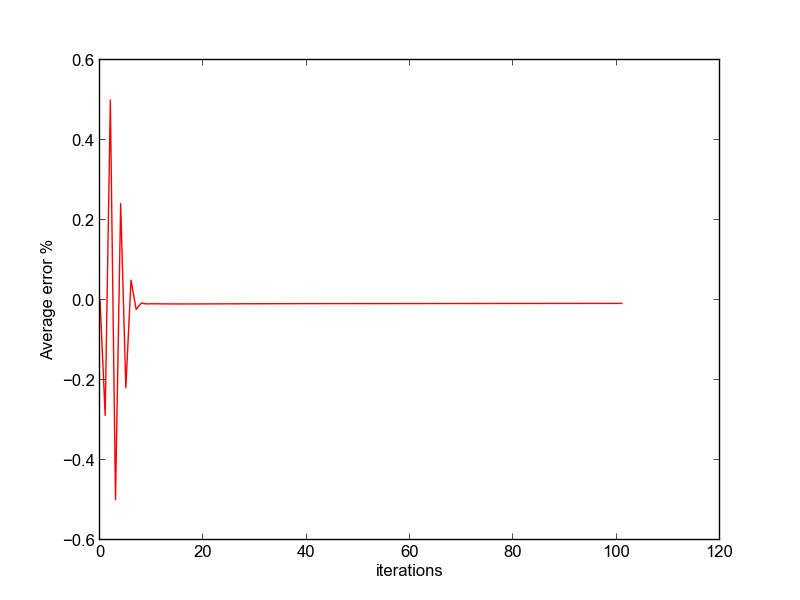
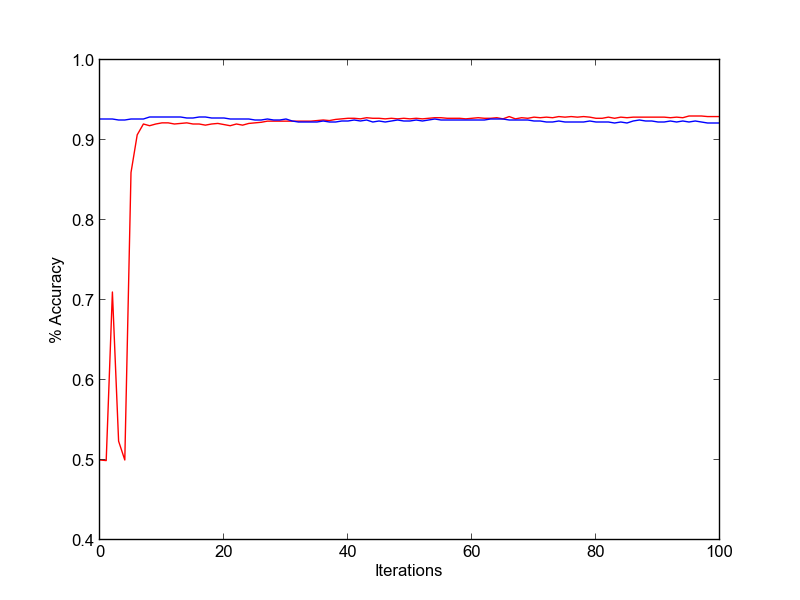
adjusted from calculating error, to tacking accuracy, and used rounding to determine which class the image belonged to, instead of raw probability

diff --git a/IA2/usps.py b/IA2/usps.py
@@ -23,32 +23,32 @@ def batch_gradient_descent(data, y, w):
 	x = 0
 	max_exponent = 0;
 	iterations = []
-	avErrorList = []
+	avAccuracyList = []
 	dOld = np.zeros((len(data[0]),1))
 	while (convergence != True):
-		errorList = []
-		#print w
-		#print data[x]
+		correct = 0
 		dNew = np.zeros((len(data[0]),1))
 		dataT = data.T
 		print "----------------------------------------------"
 		for i in range(1, len(data)):
-		#	print "i ", i
 			exponent = (-1*(w)) * (data[i-1].T)
 			yHat = 1/(1+ math.exp(exponent))
-			errors = y[i] - yHat
-
-			errorList.append(errors)		
+			yHatRound = round(yHat)
+	
+			errors = y[i] - yHatRound
+			if(errors == 0):
+				correct = correct + 1
 			dNew = dNew + (errors.item(0) * data[i])
 		w = w + (learningRate * dNew)
 
-		sumError = sum(errorList)
-		avError = sumError / len(y)
-		print "%Error" , avError
-		avErrorList.append(avError)
+		avAccuracy = float(correct) / float(len(y))
+		print correct, " Correct, out of ", len(y) 
+		print "% Accurracy" , avAccuracy
+		avAccuracyList.append(avAccuracy)
 		iterations.append(x)	
 
-		if(np.linalg.norm((dNew - dOld), 'fro') < 1 or x > 100):
+		#if(np.linalg.norm((dNew - dOld), 'fro') < .1 or x > 10000):
+		if(x >= 100):
 			convergence = True;	
 		else:
 			print np.linalg.norm((dNew - dOld), 'fro')
@@ -56,55 +56,47 @@ def batch_gradient_descent(data, y, w):
 			dOld = dNew;
 			x = x + 1
 
-	return iterations, avErrorList
+	return iterations, avAccuracyList, w
 
-def graph_error_over_iterations(iterations, avErrorList, source):
-	#print iterations
-	#print avError
-		
-
+def graph_error_over_iterations(iterations, avAccuracyList, source):
 	it = np.array(iterations)
-	err = np.array(avErrorList)
+	err = np.array(avAccuracyList)
 	err.shape = it.shape
-
-
 
 	print it.shape
 	print err.shape	
 	plt.figure(1)
 	if(source == 0):
-		plt.plot(it, err, 'r', label='test')
+		plt.plot(it, err, 'r', label='train')
 	else:
-		plt.plot(it, err, 'b', label='train')
-	plt.xlabel('iterations')
-	plt.ylabel('Average error %')
+		plt.plot(it, err, 'b', label='test')
+	plt.xlabel('Iterations')
+	plt.ylabel('% Accuracy')
 	plt.savefig('gradientDescentImprovement.png')
 
 
-def get_train_data():
-#	reader = open("usps-4-9-train.csv", "rb")
+def get_data(filename):
 	data = []
-	myText = np.loadtxt(open("usps-4-9-train.csv", "rb"), delimiter=",")
+	myText = np.loadtxt(open(filename, "rb"), delimiter=",")
 	x = list(myText)
 	data = np.array(x).astype("float")
-	#rowTemp  = []
-	#for line in reader:
-	#	rowTemp = line.split(",")
-#		numbers = [float(n) for n in rowTemp]
-	#	data.append(rowTemp)#numbers)
-	rowNum = len(data)
+
 	y = matrix(column(data, 256)).T
 	data = matrix(np.delete(data, 256, axis=1))
 
-	#Add columns of ones 
-	dataD = data
-#	b = np.ones((rowNum,1))
-#	dataD = np.append(dataD, b, axis=1)
+	return data, y
 
-	return data, dataD, y
+filename = "usps-4-9-train.csv"
+filenameT = "usps-4-9-test.csv"
 
-dataNo, data, y = get_train_data()
+data, y = get_data(filename)
 w = matrix(np.zeros(256))
 
-iterations, avError = batch_gradient_descent(data, y, w)	
-graph_error_over_iterations(iterations, avError, 0)
+iterations, avAccuracy, w2 = batch_gradient_descent(data, y, w)	
+graph_error_over_iterations(iterations, avAccuracy, 0)
+
+#Test data
+data, y = get_data(filenameT)
+#print w2
+iterations, avAccuracy, wunsued = batch_gradient_descent(data, y, w2)	
+graph_error_over_iterations(iterations, avAccuracy, 1)
